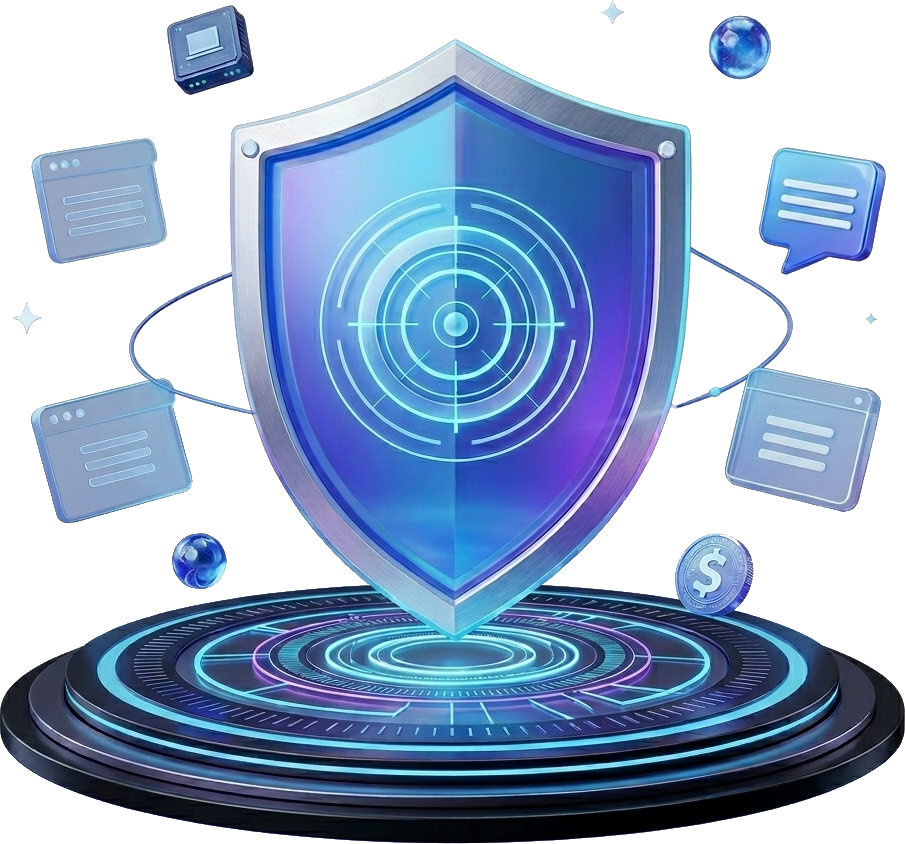
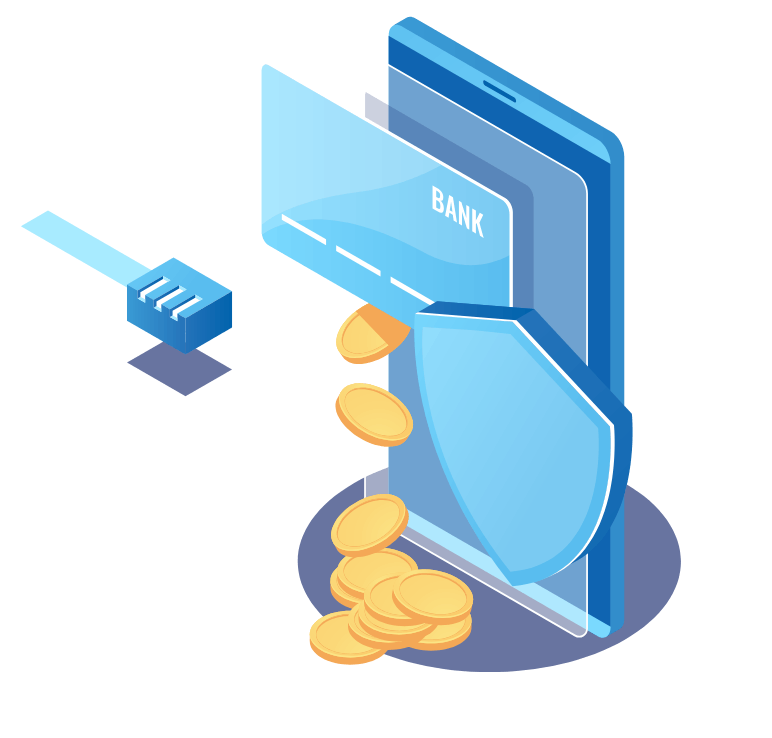
design changes and images added

diff --git a/components/royalty-splits/MoneySplitAnimation.tsx b/components/royalty-splits/MoneySplitAnimation.tsx
@@ -1,0 +1,225 @@
+"use client";
+
+import { motion, AnimatePresence, useInView } from "framer-motion";
+import { IndianRupee, Wallet, User, Briefcase, TrendingUp, ShieldCheck } from "lucide-react";
+import { useState, useEffect, useRef } from "react";
+
+const FloatingNode = ({ children, className, delay = 0, isInView }: { children: React.ReactNode; className?: string; delay?: number; isInView: boolean }) => (
+  <motion.div
+    initial={{ y: 0, opacity: 0 }}
+    animate={isInView ? { y: [0, -12, 0], opacity: 1 } : { opacity: 0 }}
+    transition={{
+      y: { duration: 4, repeat: Infinity, ease: "easeInOut", delay },
+      opacity: { duration: 0.8, delay: delay * 0.2 }
+    }}
+    className={className}
+  >
+    {children}
+  </motion.div>
+);
+
+export default function MoneySplitAnimation() {
+  const [particles, setParticles] = useState<number[]>([]);
+  const containerRef = useRef(null);
+  const isInView = useInView(containerRef, { once: true, amount: 0.3 });
+
+  useEffect(() => {
+    // Generate particle sequences
+    setParticles([0, 1.2, 2.4, 3.6]);
+  }, []);
+
+  return (
+    <div
+      ref={containerRef}
+      className="relative w-full max-w-4xl mx-auto h-[500px] flex items-center justify-center mt-12 select-none pointer-events-none perspective-1000 overflow-visible"
+    >
+
+      {/* 1. Atmospheric Background Glows */}
+      <div className="absolute inset-0 z-0 overflow-visible">
+        <motion.div
+          animate={{ rotate: 360 }}
+          transition={{ duration: 25, repeat: Infinity, ease: "linear" }}
+          className="absolute top-1/2 left-1/4 w-[600px] h-[600px] -translate-x-1/2 -translate-y-1/2 rounded-full opacity-[0.1] mix-blend-screen"
+          style={{ background: "radial-gradient(circle, #10b981 0%, transparent 70%)" }}
+        />
+        <motion.div
+          animate={{ rotate: -360 }}
+          transition={{ duration: 30, repeat: Infinity, ease: "linear" }}
+          className="absolute top-1/2 left-3/4 w-[500px] h-[500px] -translate-x-1/2 -translate-y-1/2 rounded-full opacity-[0.1] mix-blend-screen"
+          style={{ background: "radial-gradient(circle, #6366f1 0%, transparent 70%)" }}
+        />
+      </div>
+
+      {/* 2. Premium SVG Flow Paths */}
+      <svg
+        className="absolute inset-0 w-full h-full z-0 overflow-visible drop-shadow-[0_0_15px_rgba(16,185,129,0.2)]"
+        viewBox="0 0 800 500"
+        fill="none"
+        xmlns="http://www.w3.org/2000/svg"
+      >
+        <defs>
+          <linearGradient id="splitGradient" x1="0%" y1="50%" x2="100%" y2="50%">
+            <stop offset="0%" stopColor="rgba(16, 185, 129, 0.05)" />
+            <stop offset="50%" stopColor="rgba(16, 185, 129, 0.4)" />
+            <stop offset="100%" stopColor="rgba(99, 102, 241, 0.05)" />
+          </linearGradient>
+        </defs>
+
+        {/* Path 1: Top Branch */}
+        <motion.path
+          d="M 200 250 L 400 250 Q 480 250 480 120 L 600 120"
+          stroke="url(#splitGradient)"
+          strokeWidth="3"
+          strokeLinecap="round"
+          strokeDasharray="12 24"
+          initial={{ pathLength: 0 }}
+          animate={isInView ? { pathLength: 1, strokeDashoffset: [0, -72] } : {}}
+          transition={{
+            pathLength: { duration: 2, ease: "easeInOut" },
+            strokeDashoffset: { duration: 2, repeat: Infinity, ease: "linear" }
+          }}
+        />
+
+        {/* Path 2: Bottom Branch */}
+        <motion.path
+          d="M 200 250 L 400 250 Q 480 250 480 380 L 600 380"
+          stroke="url(#splitGradient)"
+          strokeWidth="3"
+          strokeLinecap="round"
+          strokeDasharray="12 24"
+          initial={{ pathLength: 0 }}
+          animate={isInView ? { pathLength: 1, strokeDashoffset: [0, -72] } : {}}
+          transition={{
+            pathLength: { duration: 2, ease: "easeInOut" },
+            strokeDashoffset: { duration: 2, repeat: Infinity, ease: "linear" }
+          }}
+        />
+      </svg>
+
+      {/* 3. Source Node: Elite Card */}
+      <FloatingNode isInView={isInView} className="absolute left-[100px] z-20">
+        <div className="relative group">
+          <div className="absolute -inset-1 bg-gradient-to-r from-emerald-500 to-violet-500 rounded-[2rem] blur opacity-25 group-hover:opacity-40 transition duration-1000 group-hover:duration-200" />
+          <div className="relative bg-[#0a0a0c]/80 backdrop-blur-3xl border border-white/10 rounded-[1.8rem] p-7 shadow-2xl flex flex-col items-center gap-4">
+            <div className="bg-emerald-500/10 rounded-2xl p-4 border border-emerald-500/20 shadow-inner">
+              <Wallet className="w-10 h-10 text-emerald-400 drop-shadow-[0_0_8px_rgba(16,185,129,0.5)]" />
+            </div>
+            <div className="text-center">
+              <p className="text-[10px] font-bold text-muted-foreground uppercase tracking-widest mb-1.5 opacity-60">Global Revenue</p>
+              <h4 className="text-lg font-bold text-white flex items-center gap-2">
+                <IndianRupee className="w-4 h-4 text-emerald-400" />
+                100
+              </h4>
+            </div>
+            <div className="flex gap-1.5">
+              <div className="h-1 w-8 rounded-full bg-emerald-500/40" />
+              <div className="h-1 w-2 rounded-full bg-white/20" />
+              <div className="h-1 w-2 rounded-full bg-white/20" />
+            </div>
+          </div>
+        </div>
+      </FloatingNode>
+
+      {/* 4. Elite Flow Particles */}
+      {isInView && particles.map((delay, i) => (
+        <AnimatePresence key={i}>
+          {/* Top Branch Particles */}
+          <motion.div
+            animate={{
+              x: [-200, 0, 70, 200],
+              y: [0, 0, -135, -135],
+              opacity: [0, 1, 1, 0],
+              scale: [0.6, 1, 1, 0.6],
+              rotate: [0, 15, -15, 0],
+            }}
+            transition={{ duration: 4.5, delay, repeat: Infinity, ease: "easeInOut" }}
+            className="absolute z-30"
+          >
+            <div className="relative">
+              <div className="absolute inset-0 bg-emerald-400 blur-md opacity-40 rounded-full" />
+              <div className="relative bg-[#0a0a0c] border border-emerald-400/50 rounded-full p-2.5 shadow-[0_0_20px_rgba(16,185,129,0.4)]">
+                <IndianRupee className="w-4 h-4 text-emerald-400" />
+              </div>
+            </div>
+          </motion.div>
+
+          {/* Bottom Branch Particles */}
+          <motion.div
+            animate={{
+              x: [-200, 0, 70, 200],
+              y: [0, 0, 125, 125],
+              opacity: [0, 1, 1, 0],
+              scale: [0.6, 1, 1, 0.6],
+              rotate: [0, -15, 15, 0],
+            }}
+            transition={{ duration: 4.5, delay: delay + 0.6, repeat: Infinity, ease: "easeInOut" }}
+            className="absolute z-30"
+          >
+            <div className="relative">
+              <div className="absolute inset-0 bg-violet-400 blur-md opacity-40 rounded-full" />
+              <div className="relative bg-[#0a0a0c] border border-violet-400/50 rounded-full p-2.5 shadow-[0_0_20px_rgba(99,102,241,0.4)]">
+                <IndianRupee className="w-4 h-4 text-violet-400" />
+              </div>
+            </div>
+          </motion.div>
+        </AnimatePresence>
+      ))}
+
+      {/* 5. Recipient Nodes: Elite Cards */}
+      <div className="absolute right-[100px] h-full flex flex-col justify-between py-8 z-20">
+
+        {/* Recipient 1: Artist (Top) */}
+        <FloatingNode isInView={isInView} delay={0.5}>
+          <div className="relative group">
+            <div className="absolute -inset-1 bg-gradient-to-r from-emerald-500 to-emerald-400 rounded-3xl blur opacity-15" />
+            <div className="relative bg-[#0a0a0c]/90 backdrop-blur-2xl border border-white/10 rounded-2xl p-5 shadow-xl flex items-center gap-5 min-w-[240px]">
+              <div className="bg-emerald-500/20 rounded-xl p-3 border border-emerald-500/20">
+                <User className="w-6 h-6 text-emerald-400" />
+              </div>
+              <div>
+                <div className="flex items-center justify-between gap-12 mb-1">
+                  <p className="text-[10px] font-bold text-muted-foreground uppercase tracking-widest">Artist Split</p>
+                  <span className="text-[10px] font-bold bg-emerald-500 text-black px-1.5 py-0.5 rounded-md">50%</span>
+                </div>
+                <h5 className="text-sm font-bold text-white flex items-center gap-1.5">
+                  <IndianRupee className="w-3 h-3 text-emerald-400" />
+                  50
+                </h5>
+                <p className="text-[9px] text-emerald-400 mt-1 flex items-center gap-1">
+                  <ShieldCheck className="w-2.5 h-2.5" /> Secured Payout
+                </p>
+              </div>
+            </div>
+          </div>
+        </FloatingNode>
+
+        {/* Recipient 2: Label/Producer (Bottom) */}
+        <FloatingNode isInView={isInView} delay={1.2}>
+          <div className="relative group">
+            <div className="absolute -inset-1 bg-gradient-to-r from-violet-500 to-violet-400 rounded-3xl blur opacity-15" />
+            <div className="relative bg-[#0a0a0c]/90 backdrop-blur-2xl border border-white/10 rounded-2xl p-5 shadow-xl flex items-center gap-5 min-w-[240px]">
+              <div className="bg-violet-500/20 rounded-xl p-3 border border-violet-500/20">
+                <Briefcase className="w-6 h-6 text-violet-400" />
+              </div>
+              <div>
+                <div className="flex items-center justify-between gap-12 mb-1">
+                  <p className="text-[10px] font-bold text-muted-foreground uppercase tracking-widest">Label Share</p>
+                  <span className="text-[10px] font-bold bg-violet-500 text-white px-1.5 py-0.5 rounded-md">50%</span>
+                </div>
+                <h5 className="text-sm font-bold text-white flex items-center gap-1.5">
+                  <IndianRupee className="w-3 h-3 text-violet-400" />
+                  50
+                </h5>
+                <p className="text-[9px] text-violet-400 mt-1 flex items-center gap-1">
+                  <TrendingUp className="w-2.5 h-2.5" /> High Performance
+                </p>
+              </div>
+            </div>
+          </div>
+        </FloatingNode>
+
+      </div>
+
+    </div>
+  );
+}

diff --git a/components/smart-music/SmartMusicFeatures.tsx b/components/smart-music/SmartMusicFeatures.tsx
@@ -20,6 +20,7 @@ const additionalFeatures = [
     iconBg: "bg-pink-500/10",
     borderHover: "hover:border-pink-500/30",
     title: "AI Cover Art Generator",
+    image: "/assets/images/ai-cover-art-generater-thumb.png",
     desc: "Create professional artwork instantly.",
     items: ["AI Generated Artwork", "Professional Quality Output", "Style Suggestions", "Export Ready Files"],
   },
@@ -143,11 +144,11 @@ export default function SmartMusicFeatures() {
               <Layers className="h-3.5 w-3.5 text-pink-400" />
               Platform Tools
             </div>
-            <h2 className="text-3xl sm:text-4xl font-bold font_heading mb-4">
+            <h2 className="text-4xl sm:text-5xl font-bold font_heading mb-4">
               Everything You Need{" "}
               <span className="animated-gradient">in One Platform</span>
             </h2>
-            <p className="text-muted-foreground max-w-lg mx-auto text-sm">
+            <p className="text-muted-foreground max-w-lg mx-auto text-base">
               From AI-generated artwork to automatic mastering and telecom CRBT — you have every tool at your fingertips.
             </p>
           </div>

diff --git a/components/royalty-splits/RoyaltySplitsHero.tsx b/components/royalty-splits/RoyaltySplitsHero.tsx
@@ -1,6 +1,7 @@
 "use client";
 
 import { ArrowRight, Sparkles } from "lucide-react";
+import MoneySplitAnimation from "./MoneySplitAnimation";
 
 export default function RoyaltySplitsHero() {
   return (
@@ -59,6 +60,10 @@ export default function RoyaltySplitsHero() {
             Start with Kratolib
           </a>
         </div>
+
+
+
+        <MoneySplitAnimation />
       </div>
     </section>
   );
